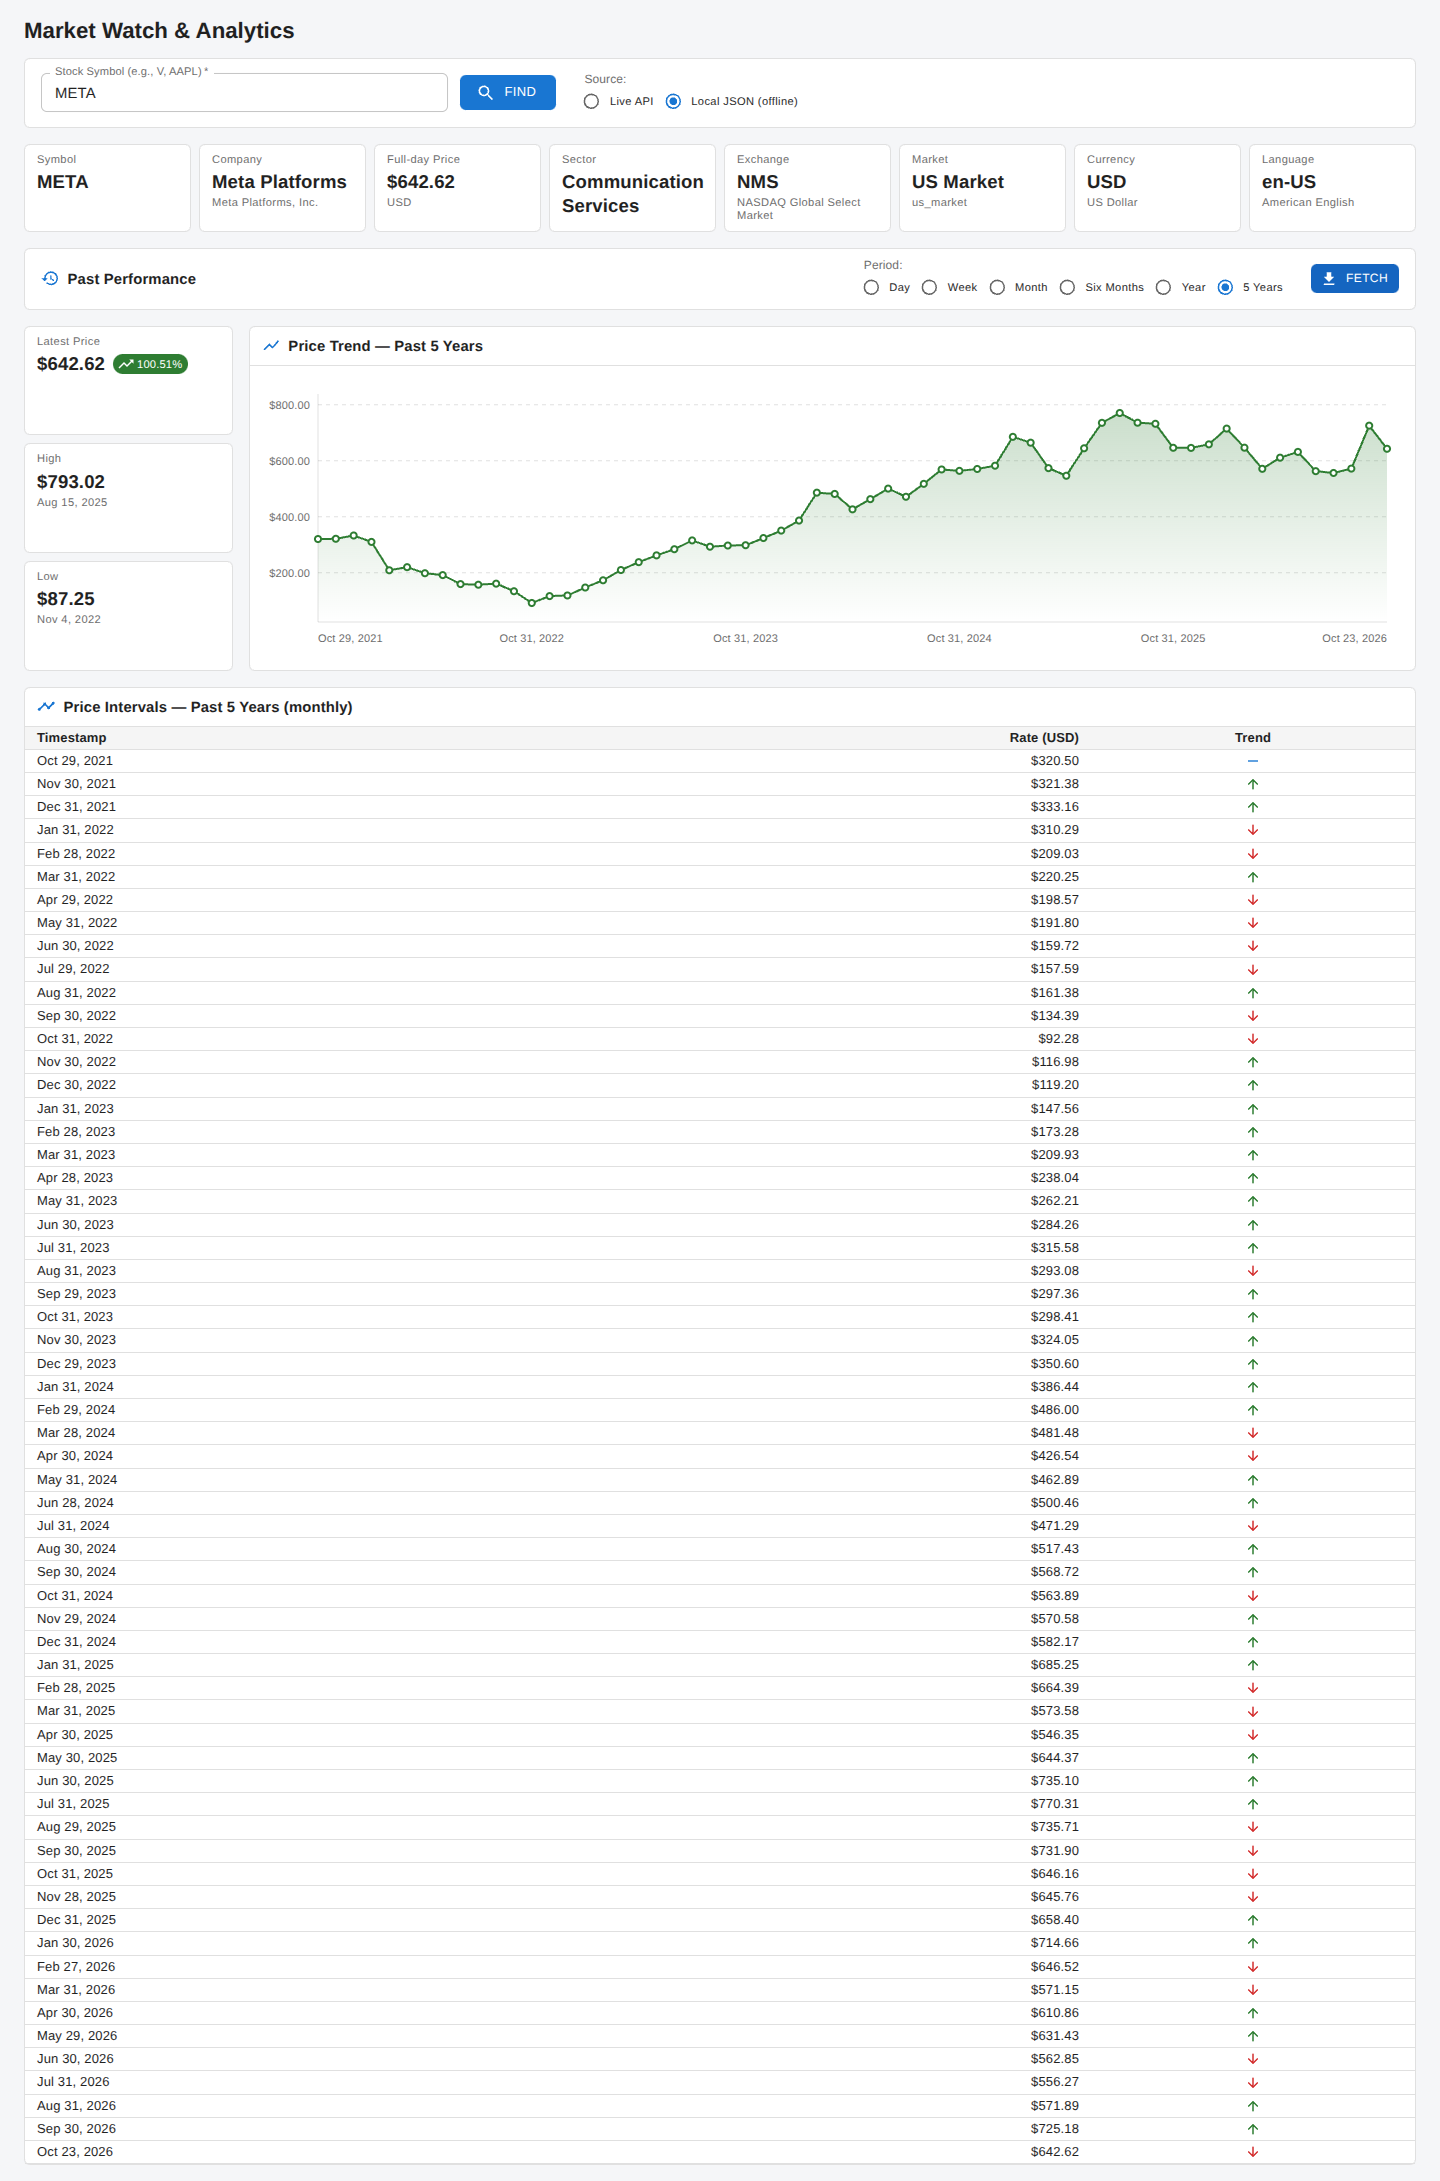
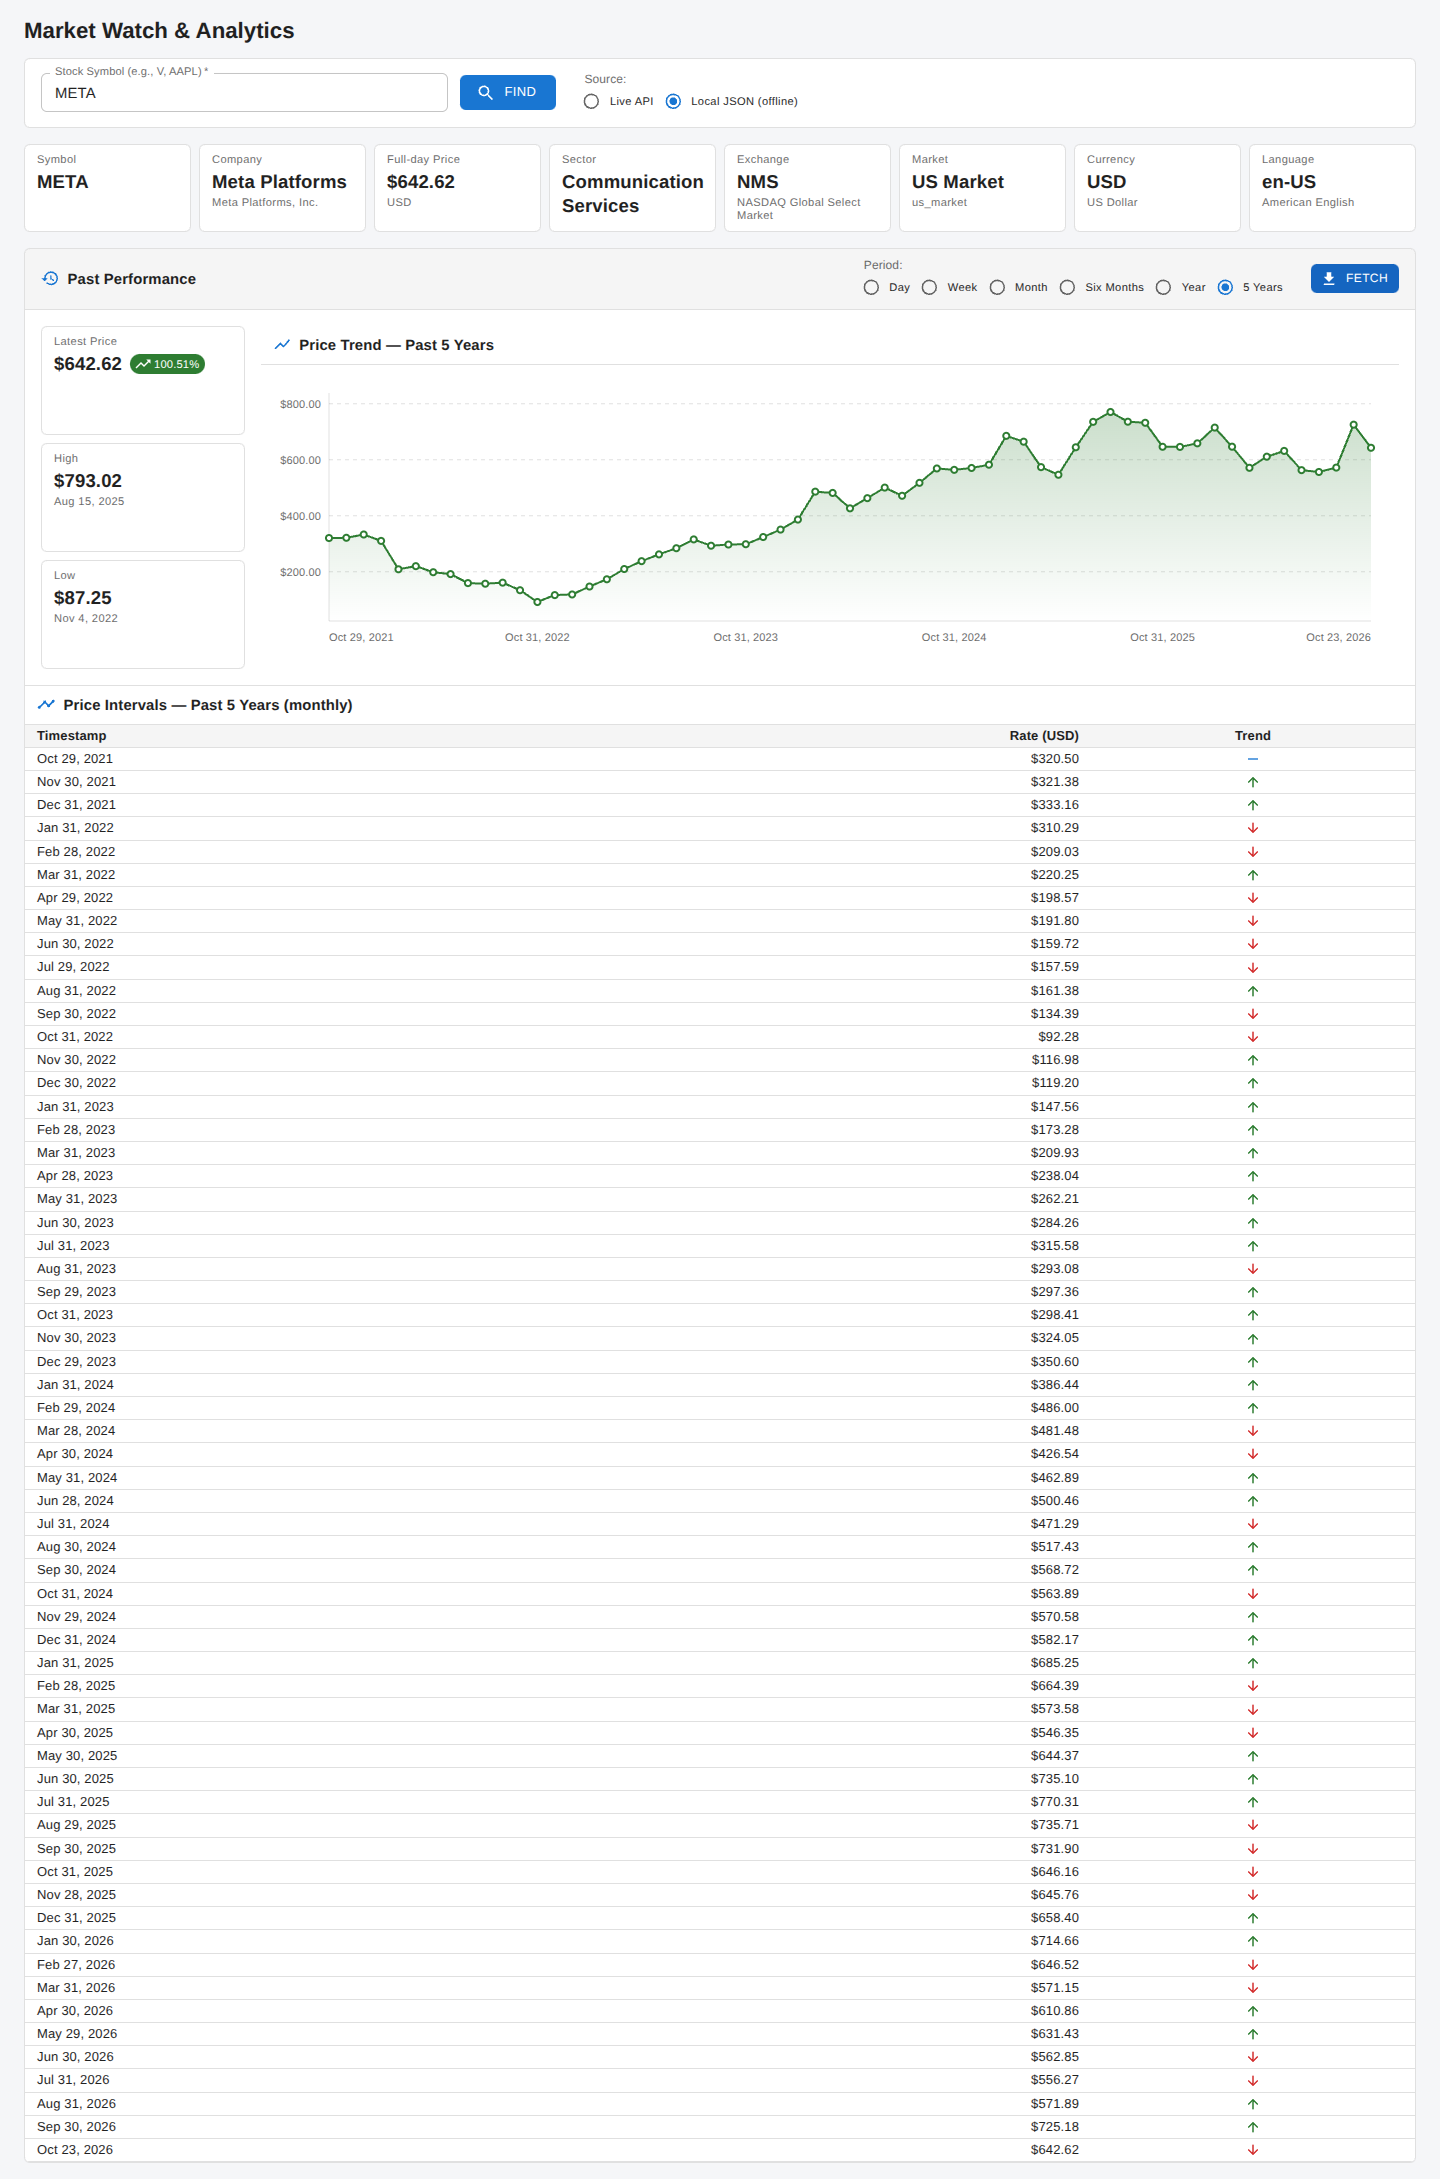
Market Watch UI - extension - fourth pass.

diff --git a/src/components/PastPerformanceSection.tsx b/src/components/PastPerformanceSection.tsx
@@ -1,4 +1,4 @@
-import { Box, Button, CircularProgress, Paper, Typography } from '@mui/material';
+import { Box, Button, CircularProgress, Divider, Paper, Typography } from '@mui/material';
 import HistoryIcon from '@mui/icons-material/History';
 import DownloadIcon from '@mui/icons-material/Download';
 import type { LookupError } from '../errors/lookupError.ts';
@@ -30,8 +30,8 @@ export interface PastPerformanceSectionProps {
 export const PAST_PERFORMANCE_HEADING_ID = 'past-performance-heading';
 
 /**
- * "Past Performance": a period selector and Fetch button; once data is loaded, the
- * summary tiles (latest price, high, low) beside the price chart, and the interval table.
+ * "Past Performance" as one panel: a header bar (title, period selector, Fetch), then —
+ * separated by dividers — the summary tiles beside the price chart, and the interval table.
  * Until the first fetch the chart and table render their empty states.
  */
 export default function PastPerformanceSection({
@@ -52,13 +52,13 @@ export default function PastPerformanceSection({
     : 'Price Intervals';
 
   return (
-    <Box
+    <Paper
       component="section"
       aria-labelledby={PAST_PERFORMANCE_HEADING_ID}
       data-testid="past-performance"
-      sx={{ display: 'flex', flexDirection: 'column', gap: 2 }}
+      sx={{ display: 'flex', flexDirection: 'column', overflow: 'hidden' }}
     >
-      <Paper
+      <Box
         sx={{
           px: 2,
           py: 1,
@@ -66,6 +66,7 @@ export default function PastPerformanceSection({
           alignItems: 'center',
           gap: 2,
           flexWrap: 'wrap',
+          bgcolor: 'action.hover',
         }}
       >
         <Box sx={{ display: 'flex', alignItems: 'center', gap: 1, mr: 'auto' }}>
@@ -87,28 +88,34 @@ export default function PastPerformanceSection({
         >
           {loading ? <CircularProgress size={18} color="inherit" /> : 'Fetch'}
         </Button>
-      </Paper>
+      </Box>
+      <Divider />
 
-      {error && <ErrorBanner error={error} />}
-
-      {loading && (
-        <LoadingIndicator
-          symbol={details.symbol}
-          subject="past performance"
-          caption={`Retrieving historic prices and high/low for the past ${
-            pendingPeriod ? performancePeriodLabel(pendingPeriod).toLowerCase() : 'period'
-          }`}
-          py={3}
-        />
+      {error && (
+        <Box sx={{ p: 2, pb: 0 }}>
+          <ErrorBanner error={error} />
+        </Box>
       )}
 
-      {!loading && (
+      {loading ? (
+        <Box sx={{ p: 2 }}>
+          <LoadingIndicator
+            symbol={details.symbol}
+            subject="past performance"
+            caption={`Retrieving historic prices and high/low for the past ${
+              pendingPeriod ? performancePeriodLabel(pendingPeriod).toLowerCase() : 'period'
+            }`}
+            py={3}
+          />
+        </Box>
+      ) : (
         <>
           <Box
             data-testid="overview-row"
             sx={{
               display: 'flex',
               gap: 2,
+              p: 2,
               alignItems: 'stretch',
               flexDirection: { xs: 'column', md: 'row' },
             }}
@@ -119,13 +126,13 @@ export default function PastPerformanceSection({
               </Box>
             )}
             <Box sx={{ flexGrow: 1, minWidth: 0 }}>
-              <PriceChart history={points} title={chartTitle} currency={details.currency} />
+              <PriceChart history={points} title={chartTitle} currency={details.currency} embedded />
             </Box>
           </Box>
-
-          <HourlyPriceTable history={points} title={tableTitle} currency={details.currency} />
+          <Divider />
+          <HourlyPriceTable history={points} title={tableTitle} currency={details.currency} embedded />
         </>
       )}
-    </Box>
+    </Paper>
   );
 }

diff --git a/src/App.default.test.tsx b/src/App.default.test.tsx
@@ -4,6 +4,9 @@ import userEvent from '@testing-library/user-event';
 import { afterEach, describe, expect, it, vi } from 'vitest';
 import App from './App.tsx';
 import detailGoog from '../public/data/detail-GOOG.json';
+import detailAapl from '../public/data/detail-AAPL.json';
+import historicAaplMonth from '../public/data/historic-AAPL-MONTH.json';
+import highlowAaplMonth from '../public/data/highlow-AAPL-MONTH.json';
 
 /** Only the transport is replaced; axios' error helpers stay real so 404 handling is exercised. */
 vi.mock('axios', async (importOriginal) => {
@@ -56,5 +59,32 @@ describe('App (default service wiring)', () => {
 
     expect(await screen.findByRole('alert')).toHaveTextContent('Live API unreachable');
     expect(vi.mocked(axios.get).mock.calls[0][0]).toBe('https://api.market-watch.example/v1/stock/AAPL');
+  });
+
+  it('Fetch calls the live historic and highlow endpoints on the configured host when the Live API source is selected', async () => {
+    const base = 'https://api.market-watch.example/v1';
+    vi.mocked(axios.get).mockImplementation(async (url: string) => {
+      if (url === `${base}/stock/AAPL`) return { data: detailAapl };
+      if (url === `${base}/stock/AAPL/historic?period=MONTH`) return { data: historicAaplMonth };
+      if (url === `${base}/stock/AAPL/highlow?period=MONTH`) return { data: highlowAaplMonth };
+      throw new Error(`unexpected request: ${url}`);
+    });
+    render(<App lookupOptions={{ minLoadingMs: 0 }} />);
+
+    // "Live API" is the default source; nothing offline is touched.
+    await userEvent.type(screen.getByLabelText(/stock symbol/i), 'AAPL{enter}');
+    await screen.findByTestId('summary-symbol');
+    await userEvent.click(screen.getByRole('radio', { name: 'Month' }));
+    await userEvent.click(screen.getByRole('button', { name: 'Fetch' }));
+
+    expect(await screen.findByTestId('summary-tiles')).toBeInTheDocument();
+    expect(screen.getByTestId('summary-high')).toHaveTextContent('$351.73');
+    expect(screen.getAllByRole('row')).toHaveLength(21); // header + 20 daily samples
+    expect(vi.mocked(axios.get).mock.calls.map((c) => c[0]).sort()).toEqual([
+      `${base}/stock/AAPL`,
+      `${base}/stock/AAPL/highlow?period=MONTH`,
+      `${base}/stock/AAPL/historic?period=MONTH`,
+    ]);
+    expect(vi.mocked(axios.get).mock.calls.some(([url]) => String(url).includes('/data/'))).toBe(false);
   });
 });

diff --git a/src/components/PriceChart.tsx b/src/components/PriceChart.tsx
@@ -5,6 +5,7 @@ import { computePriceChartLayout, type PriceChartLayout } from '../charts/priceC
 import { useElementWidth } from '../hooks/useElementWidth.ts';
 import type { TrendPoint } from '../types/stock.ts';
 import { formatPrice } from '../utils/format.ts';
+import { EMBEDDED_PAPER_SX } from './embedded.ts';
 
 export interface PriceChartProps {
   history: TrendPoint[];
@@ -15,6 +16,8 @@ export interface PriceChartProps {
   title?: string;
   /** ISO-4217 code used to format prices; defaults to USD. */
   currency?: string;
+  /** Render without its own border/background, for use inside a grouped panel. */
+  embedded?: boolean;
 }
 
 export const DEFAULT_CHART_TITLE = 'Price Trend';
@@ -43,6 +46,7 @@ export default function PriceChart({
   height = DEFAULT_CHART_HEIGHT,
   title = DEFAULT_CHART_TITLE,
   currency,
+  embedded = false,
 }: PriceChartProps) {
   const theme = useTheme();
   const [activeIndex, setActiveIndex] = useState<number | null>(null);
@@ -65,7 +69,10 @@ export default function PriceChart({
   const active = activeIndex !== null ? points[activeIndex] : undefined;
 
   return (
-    <Paper sx={{ height: '100%', display: 'flex', flexDirection: 'column' }}>
+    <Paper
+      sx={{ height: '100%', display: 'flex', flexDirection: 'column', ...(embedded ? EMBEDDED_PAPER_SX : {}) }}
+      data-testid="price-chart-panel"
+    >
       <Box
         sx={{
           px: 1.5,

diff --git a/src/components/HourlyPriceTable.tsx b/src/components/HourlyPriceTable.tsx
@@ -13,12 +13,15 @@ import TimelineIcon from '@mui/icons-material/Timeline';
 import type { TrendPoint } from '../types/stock.ts';
 import { DEFAULT_CURRENCY, formatPrice } from '../utils/format.ts';
 import TrendIndicator from './TrendIndicator.tsx';
+import { EMBEDDED_PAPER_SX } from './embedded.ts';
 
 interface HourlyPriceTableProps {
   history: TrendPoint[];
   title?: string;
   /** ISO-4217 code used to format prices; defaults to USD. */
   currency?: string;
+  /** Render without its own border/background, for use inside a grouped panel. */
+  embedded?: boolean;
 }
 
 export const DEFAULT_TABLE_TITLE = 'Price Intervals';
@@ -28,9 +31,10 @@ export default function HourlyPriceTable({
   history,
   title = DEFAULT_TABLE_TITLE,
   currency = DEFAULT_CURRENCY,
+  embedded = false,
 }: HourlyPriceTableProps) {
   return (
-    <Paper>
+    <Paper sx={embedded ? EMBEDDED_PAPER_SX : undefined} data-testid="price-table-panel">
       <Box
         sx={{
           px: 1.5,

diff --git a/src/components/embedded.ts b/src/components/embedded.ts
@@ -1,0 +1,11 @@
+import type { SxProps, Theme } from '@mui/material';
+
+/**
+ * Style for a card-like component rendered inside a larger panel: drops its own
+ * border, rounding and background so it reads as part of the surrounding group.
+ */
+export const EMBEDDED_PAPER_SX: SxProps<Theme> = {
+  border: 0,
+  borderRadius: 0,
+  bgcolor: 'transparent',
+};

diff --git a/README.md b/README.md
@@ -105,14 +105,15 @@ The UI is a single-screen dashboard (`Container maxWidth={false}`):
   fields: Symbol, Company (display name + long name), Full-day Price (formatted in the stock's currency),
   Sector, Exchange (code + name for known codes), Market (humanised), Currency and Language (code + name
   via `Intl.DisplayNames`). Tiles for absent fields are not rendered.
-- **Past Performance** — a section beneath the tiles with a header row: title, period radio group
+- **Past Performance** — a single panel beneath the tiles. Its header bar holds the title, period radio group
   (Day / Week / Month / Six Months / Year / 5 Years, default Day; the choice persists across lookups)
   and a **Fetch** button. Fetch calls `/historic` and `/highlow` together for the loaded symbol, the
   selected period and the source the symbol was loaded from, with its own loading indicator and error
-  banner inside the section. Results render as: Latest Price (with change over the period) plus High
+  banner inside the panel. Results render as: Latest Price (with change over the period) plus High
   and Low tiles (with when they occurred) in a 15% column beside the price chart (fixed 280px height,
-  container-measured via `useElementWidth`), and the dense interval table below — titled by the loaded
-  period and sampling interval (e.g. "Past Week (daily)"). Before the first fetch the chart and table
+  container-measured via `useElementWidth`), then a divider and the dense interval table — titled by
+  the loaded period and sampling interval (e.g. "Past Week (daily)"). The chart and table are rendered
+  `embedded` (no border of their own) so the group reads as one unit. Before the first fetch they
   render empty; looking up another symbol clears the results. Stacks vertically on small screens.
 - **Lookup lifecycle** — clicking Find clears any previous results immediately and shows a
   "Fetching results for X…" indicator for at least one second (`withMinimumDuration`), so even
